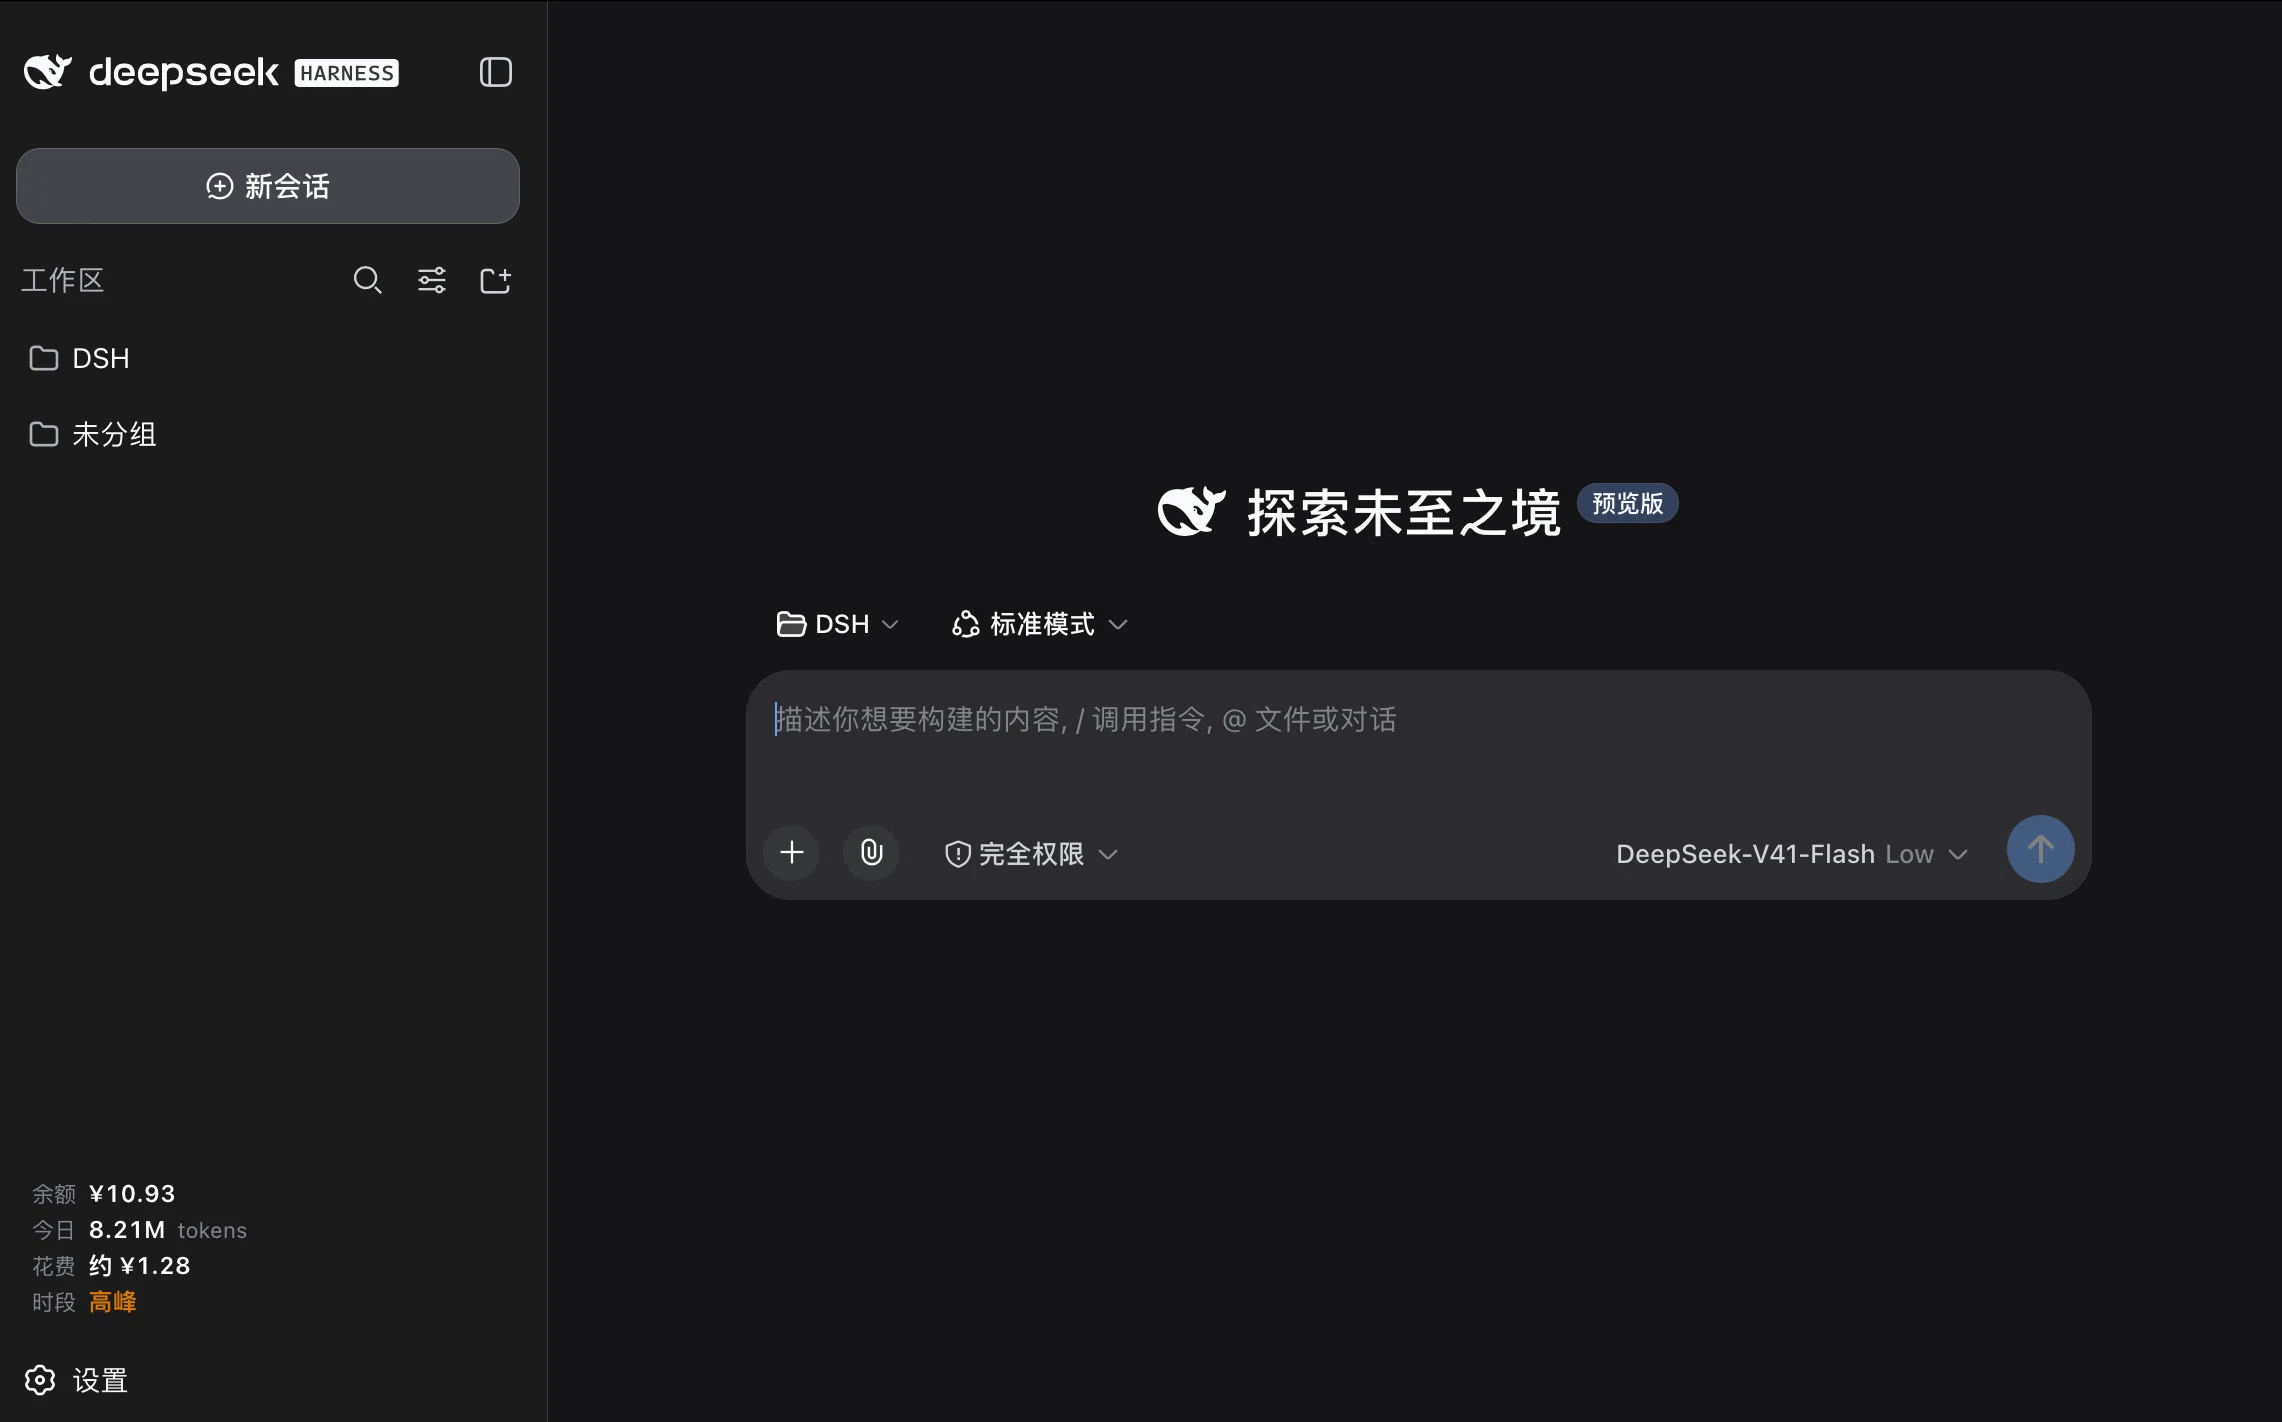
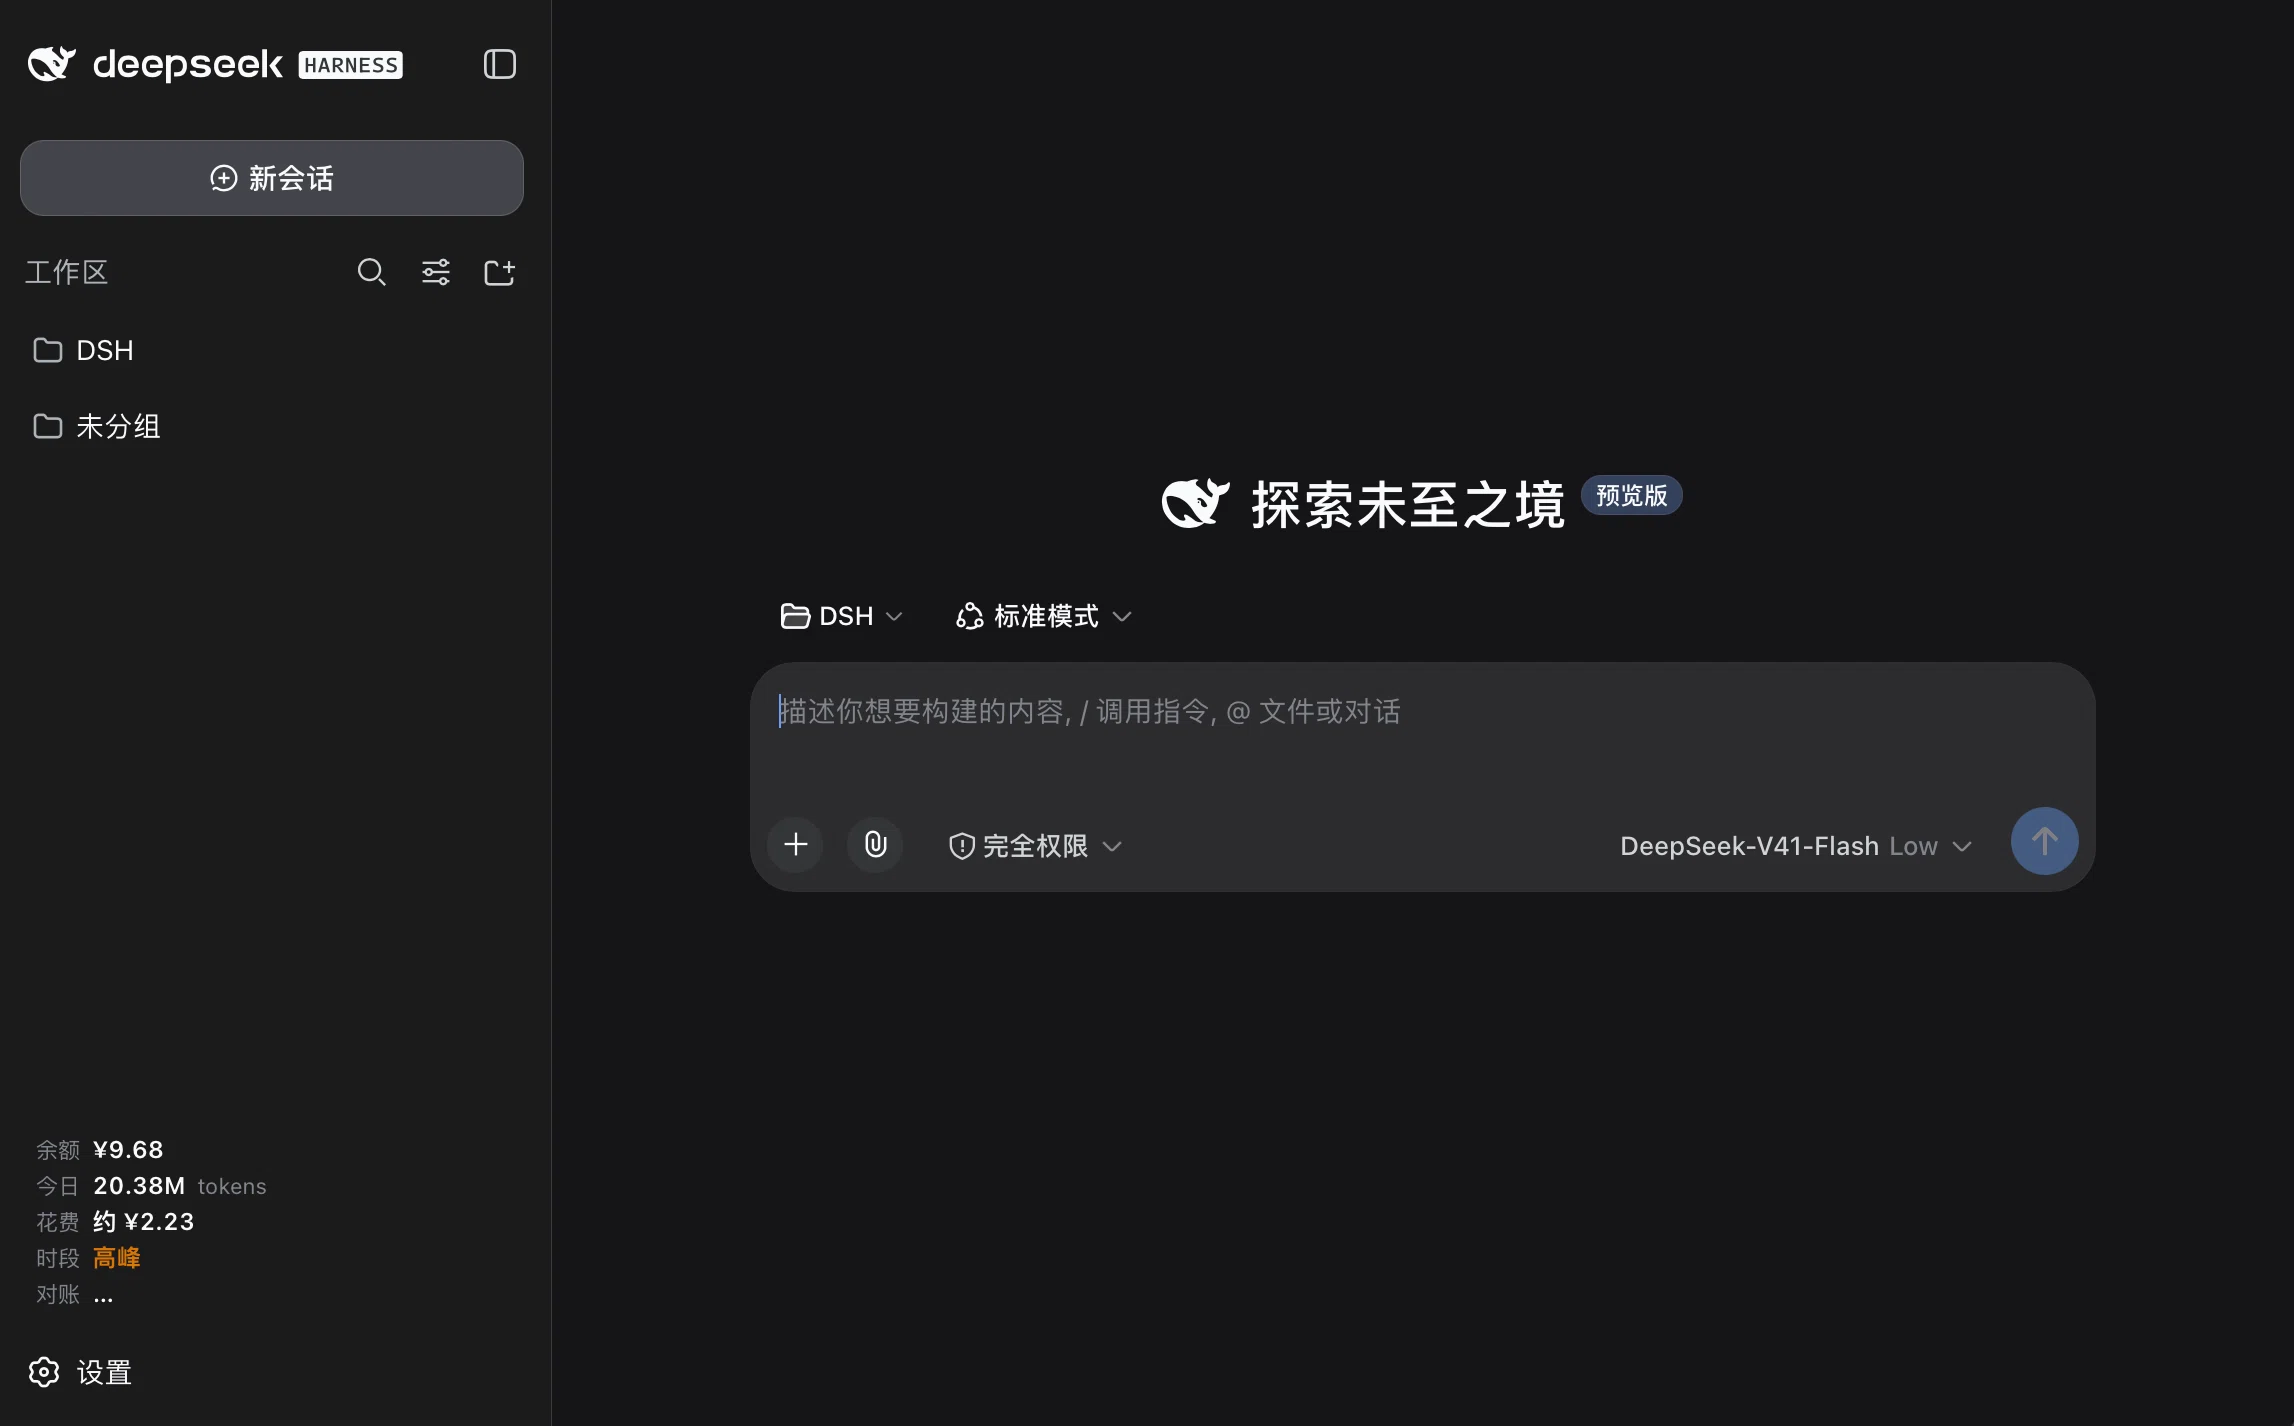
Compare only days the balance sampling fully covers
The reconciliation window used to require a sample from before the window
opened, so a fresh install showed nothing for a week. It now compares the days
the sampler covered from their midnight onward, which makes the feature usable
after one full day and grows the window toward seven as sampling accumulates.
A partially sampled day is excluded rather than measured against an estimate
that covers the whole day, which would read as a large fake drift on day one.
The footer shows the number of days actually compared.

Also distinguish "still loading" from "the host has nothing to give": when the
reconciliation routes come back empty the row now shows an em dash and says the
host half has not been restarted, instead of an ellipsis that never resolves.

Refresh the sidebar screenshot for the new footer row.

diff --git a/client.js b/client.js
@@ -258,6 +258,22 @@ window.__ModuleLoader__.load({
       return typeof key === "string" && key.length >= 10 ? key.slice(5) : String(key);
     }
 
+    /**
+     * Local `YYYY-MM-DD` for an ISO timestamp.
+     *
+     * History day keys are LOCAL days (the host buckets them with
+     * `localDateKey`), so the covered-from instant has to be reduced to a local
+     * day the same way rather than compared as a UTC date.
+     */
+    function localDayKey(iso) {
+      const parsed = typeof iso === "string" ? Date.parse(iso) : Number.NaN;
+      if (!Number.isFinite(parsed)) return null;
+      const date = new Date(parsed);
+      const month = String(date.getMonth() + 1).padStart(2, "0");
+      const day = String(date.getDate()).padStart(2, "0");
+      return `${date.getFullYear()}-${month}-${day}`;
+    }
+
     /** Whole hours, for the sampling-gap caveat. */
     function hours(ms) {
       if (typeof ms !== "number" || !Number.isFinite(ms) || ms <= 0) return "0";
@@ -293,41 +309,51 @@ window.__ModuleLoader__.load({
         (Array.isArray(ledger.rows) ? ledger.rows : []).map((row) => [row.date, row]),
       );
 
-      let estimated = 0;
-      let unpriced = false;
-      const days = [];
+      // Price every day the history reported, then keep only the days the
+      // ledger fully covers. A day is comparable once sampling reaches back
+      // past its midnight; otherwise the estimate would span more time than
+      // the balance movement does, and every gap would read as a false drift.
+      const everyDay = [];
       for (const row of rows) {
         const tokens = typeof row.totalTokens === "number" ? row.totalTokens : 0;
         let cny = 0;
+        let dayUnpriced = false;
         if (tokens > 0) {
           const cost = estimateCost(row);
           cny = cost.cny;
-          if (cost.unpriced) unpriced = true;
+          dayUnpriced = cost.unpriced;
         }
-        const actual = ledgerRows.get(row.date);
-        estimated += cny;
-        days.push({
+        const actualRow = ledgerRows.get(row.date);
+        everyDay.push({
           date: row.date,
           tokens,
           estimated: cny,
-          actual: actual === undefined ? 0 : actual.spend,
+          actual: actualRow === undefined ? 0 : actualRow.spend,
+          unpriced: dayUnpriced,
         });
       }
 
-      const actual = typeof ledger.spend === "number" ? ledger.spend : 0;
+      const coveredKey = localDayKey(ledger.coveredFrom);
+      const days = coveredKey === null ? everyDay : everyDay.filter((day) => day.date > coveredKey);
+      const estimated = days.reduce((sum, day) => sum + day.estimated, 0);
+      const actual = days.reduce((sum, day) => sum + day.actual, 0);
+      const unpriced = days.some((day) => day.unpriced);
       const drift = actual - estimated;
       // The rate table is CNY, so an account in another currency cannot be
       // compared against it at all rather than compared wrongly.
       const comparable = ledger.currency === "CNY";
-      const ready = comparable && typeof ledger.sampleCount === "number" && ledger.sampleCount > 0 && ledger.covered === true;
+      const sampled = typeof ledger.sampleCount === "number" && ledger.sampleCount > 0;
+      const ready = comparable && sampled && days.length > 0;
 
       const causes = [];
       if (!comparable) {
         causes.push(`账户以 ${ledger.currency || "未知币种"} 计价，本插件按人民币价目表估算，因此不做对账`);
-      } else if (!(typeof ledger.sampleCount === "number" && ledger.sampleCount > 0)) {
+      } else if (!sampled) {
         causes.push("还没有余额采样样本，插件运行一段时间后才可对账");
-      } else if (ledger.covered !== true) {
-        causes.push(`对账只覆盖 ${ledger.coveredFrom === null || ledger.coveredFrom === undefined ? "最近" : beijingStamp(Date.parse(ledger.coveredFrom))} 之后，此前的余额未知`);
+      } else if (days.length === 0) {
+        causes.push("对账需要至少一整天完整的余额采样，明天起可用");
+      } else if (coveredKey !== null && days.length < everyDay.length) {
+        causes.push(`对账区间为 ${shortDate(days[0].date)} 起，更早的时段没有采样`);
       }
       if (ledger.gapSuspect === true) {
         causes.push(`采样间隔最长 ${hours(ledger.maxGapMs)} 小时，期间的消耗与充值可能互相抵消而看不到`);
@@ -354,6 +380,7 @@ window.__ModuleLoader__.load({
 
       return {
         days,
+        dayCount: days.length,
         ready,
         comparable,
         currency: ledger.currency,
@@ -536,22 +563,31 @@ window.__ModuleLoader__.load({
 
       // --- Reconciliation -------------------------------------------------
       const reconView = recon === null ? null : buildReconciliation(recon.history, recon.ledger);
-      const reconText = reconView === null
+      // Distinguish "still loading" from "the host has nothing to give": a
+      // fetch that came back empty means the host half is not serving the
+      // reconciliation routes at all, which is what an un-restarted service
+      // looks like.
+      const reconUnavailable = recon !== null && reconView === null;
+      const reconText = recon === null
         ? "\u2026"
-        : reconView.ready
-          ? `${RECON_DAYS}\u65e5 ${signed(reconView.drift)}`
-          : "\u6837\u672c\u4e0d\u8db3";
-      const reconDetail = reconView === null
+        : reconUnavailable
+          ? "\u2014"
+          : reconView.ready
+            ? `${reconView.dayCount}\u65e5 ${signed(reconView.drift)}`
+            : "\u6837\u672c\u4e0d\u8db3";
+      const reconDetail = recon === null
         ? []
-        : [
-          reconView.ready
-            ? `\u5bf9\u8d26\uff08\u8fd1 ${RECON_DAYS} \u5929\uff09\u4f30\u7b97 \u00a5${reconView.estimated.toFixed(2)}\uff0c\u5b9e\u9645\u4f59\u989d\u6d88\u8017 \u00a5${reconView.actual.toFixed(2)}\uff0c\u5dee ${signed(reconView.drift)}`
-            : "\u5bf9\u8d26\uff1a\u6682\u65e0\u6cd5\u6bd4\u8f83",
-          ...reconView.days
-            .filter((day) => day.tokens > 0 || day.actual > 0)
-            .map((day) => `${shortDate(day.date)} \u4f30\u7b97 \u00a5${day.estimated.toFixed(2)} / \u5b9e\u9645 \u00a5${day.actual.toFixed(2)}`),
-          ...reconView.causes.map((cause) => `\u00b7 ${cause}`),
-        ];
+        : reconView === null
+          ? ["\u5bf9\u8d26\u4e0d\u53ef\u7528\uff1a\u5bbf\u4e3b\u7aef\u672a\u63d0\u4f9b /dsh-usage-history \u6216 /dsh-spend-ledger\uff0c\u901a\u5e38\u610f\u5473\u7740 dsh \u670d\u52a1\u8fd8\u6ca1\u6709\u91cd\u542f"]
+          : [
+            reconView.ready
+              ? `\u5bf9\u8d26\uff08${reconView.dayCount} \u5929\uff09\u4f30\u7b97 \u00a5${reconView.estimated.toFixed(2)}\uff0c\u5b9e\u9645\u4f59\u989d\u6d88\u8017 \u00a5${reconView.actual.toFixed(2)}\uff0c\u5dee ${signed(reconView.drift)}`
+              : "\u5bf9\u8d26\uff1a\u6682\u65e0\u6cd5\u6bd4\u8f83",
+            ...reconView.days
+              .filter((day) => day.tokens > 0 || day.actual > 0)
+              .map((day) => `${shortDate(day.date)} \u4f30\u7b97 \u00a5${day.estimated.toFixed(2)} / \u5b9e\u9645 \u00a5${day.actual.toFixed(2)}`),
+            ...reconView.causes.map((cause) => `\u00b7 ${cause}`),
+          ];
 
       const detail = [
         `当前时段 ${tierText}\uff08deepseek-flash \u8f93\u5165 \u00a5${rateNow.input} / \u8f93\u51fa \u00a5${rateNow.output} \u6bcf\u767e\u4e07 tokens\uff09\uff0c\u4e0b\u6b21\u5207\u6362 ${nextSwitchText}`,

diff --git a/test/client.test.js b/test/client.test.js
@@ -168,3 +168,52 @@ test('buildReconciliation returns null until both halves have arrived', () => {
   assert.equal(client.buildReconciliation({ ok: true, history: [] }, null), null)
   assert.equal(client.buildReconciliation({ ok: false, error: 'x' }, ledgerBody([])), null)
 })
+
+/** Local `YYYY-MM-DD` for a day `offsetDays` before today. */
+function dayKey(offsetDays = 0) {
+  const date = new Date()
+  date.setHours(0, 0, 0, 0)
+  date.setDate(date.getDate() - offsetDays)
+  const month = String(date.getMonth() + 1).padStart(2, '0')
+  const day = String(date.getDate()).padStart(2, '0')
+  return `${date.getFullYear()}-${month}-${day}`
+}
+
+/** An ISO instant at `extraHours` past local midnight `offsetDays` ago. */
+function localInstant(offsetDays, extraHours) {
+  const date = new Date()
+  date.setHours(0, 0, 0, 0)
+  date.setDate(date.getDate() - offsetDays)
+  return new Date(date.getTime() + extraHours * 3_600_000).toISOString()
+}
+
+test('buildReconciliation only compares days the sampling fully covers', () => {
+  const history = {
+    ok: true,
+    history: [dayRow(dayKey(1), 1_000_000, 0), dayRow(dayKey(0), 1_000_000, 0)],
+  }
+  const ledger = ledgerBody([
+    { date: dayKey(1), spend: 99, topUp: 0, grant: 0, observations: 1 },
+    { date: dayKey(0), spend: 2, topUp: 0, grant: 0, observations: 1 },
+  ], { coveredFrom: localInstant(1, 10) }) // sampling began mid-morning yesterday
+
+  const recon = client.buildReconciliation(history, ledger)
+  assert.equal(recon.dayCount, 1, 'the only partially sampled day is excluded')
+  assert.ok(Math.abs(recon.estimated - 2) < 1e-9, `estimated was ${recon.estimated}`)
+  assert.ok(Math.abs(recon.actual - 2) < 1e-9, `actual was ${recon.actual}`)
+  assert.ok(Math.abs(recon.drift) < 1e-9, 'a correct day must not read as drift')
+  assert.ok(recon.causes.some((cause) => cause.includes('对账区间')))
+})
+
+test('buildReconciliation waits for one fully sampled day instead of a whole week', () => {
+  const history = { ok: true, history: [dayRow(dayKey(0), 1_000_000, 0)] }
+  const ledger = ledgerBody(
+    [{ date: dayKey(0), spend: 1, topUp: 0, grant: 0, observations: 1 }],
+    { coveredFrom: localInstant(0, 10) }, // sampling began today
+  )
+
+  const recon = client.buildReconciliation(history, ledger)
+  assert.equal(recon.ready, false)
+  assert.equal(recon.dayCount, 0)
+  assert.ok(recon.causes.some((cause) => cause.includes('至少一整天')), 'and says why')
+})

diff --git a/README.md b/README.md
@@ -18,7 +18,7 @@ With the sidebar expanded:
 | 今日 | Today's total tokens (input + output + cache hits), compacted |
 | 花费 | Estimated spend for today, in CNY |
 | 时段 | `高峰` or `空闲` for the billing tier in force right now |
-| 对账 | Over the last 7 days, the gap between the local estimate and what the account balance actually lost |
+| 对账 | The gap between the local estimate and what the account balance actually lost, over the fully sampled days (up to 7) |
 
 While the sidebar is collapsed, the same four values are stacked as compact text inside the rail.
 
@@ -63,7 +63,9 @@ An estimate that silently drifts from the real bill is worse than no estimate, a
 
 So the host half samples the account balance on a timer — every 15 minutes whether or not a UI is open, plus whenever the footer polls — and keeps a small local history. Spending is recovered as the sum of the balance **decreases** between samples. Increases are never counted as spending; they are classified as a top-up (a rise in `topped_up_balance`) or a grant (a rise in `granted_balance`).
 
-The footer's `对账` row then shows the 7-day gap between the two, and the tooltip breaks it down per day and names every cause it can actually observe:
+The footer's `对账` row then shows the gap between the two, and the tooltip breaks it down per day and names every cause it can actually observe:
+
+**Only days the sampler covered from their midnight are compared**, so the window grows from one full day toward seven as sampling accumulates. A partially sampled day is excluded rather than counted against an estimate that covers the whole day — otherwise every install would report a large fake drift on its first day. The panel states the window it used. On a fresh install the row reads `样本不足` until the first full day is available.
 
 - **Usage this machine never saw.** The real charge is higher than the log estimate — calls from another client, a direct API integration, or session logs that were pruned.
 - **Discounts or grants absorbing the cost.** The real charge is lower than the estimate.
@@ -73,8 +75,6 @@ The footer's `对账` row then shows the 7-day gap between the two, and the tool
 - **Unpriced models.** Tokens from a model with no rate-table entry are reported rather than quietly costed at zero.
 
 **Two blind spots are stated rather than papered over.** Local session records carry no cache-write field at all, so if DeepSeek charges for cache writes, that cost is invisible to this estimate and the panel says so unconditionally. And reconciliation is only attempted for a **CNY** account: the rate table is in CNY, so a differently-denominated account is left uncompared instead of compared wrongly.
-
-A fresh install has no samples yet, so the row reads `样本不足` until the sampler has run for a while.
 
 ## Install
 
